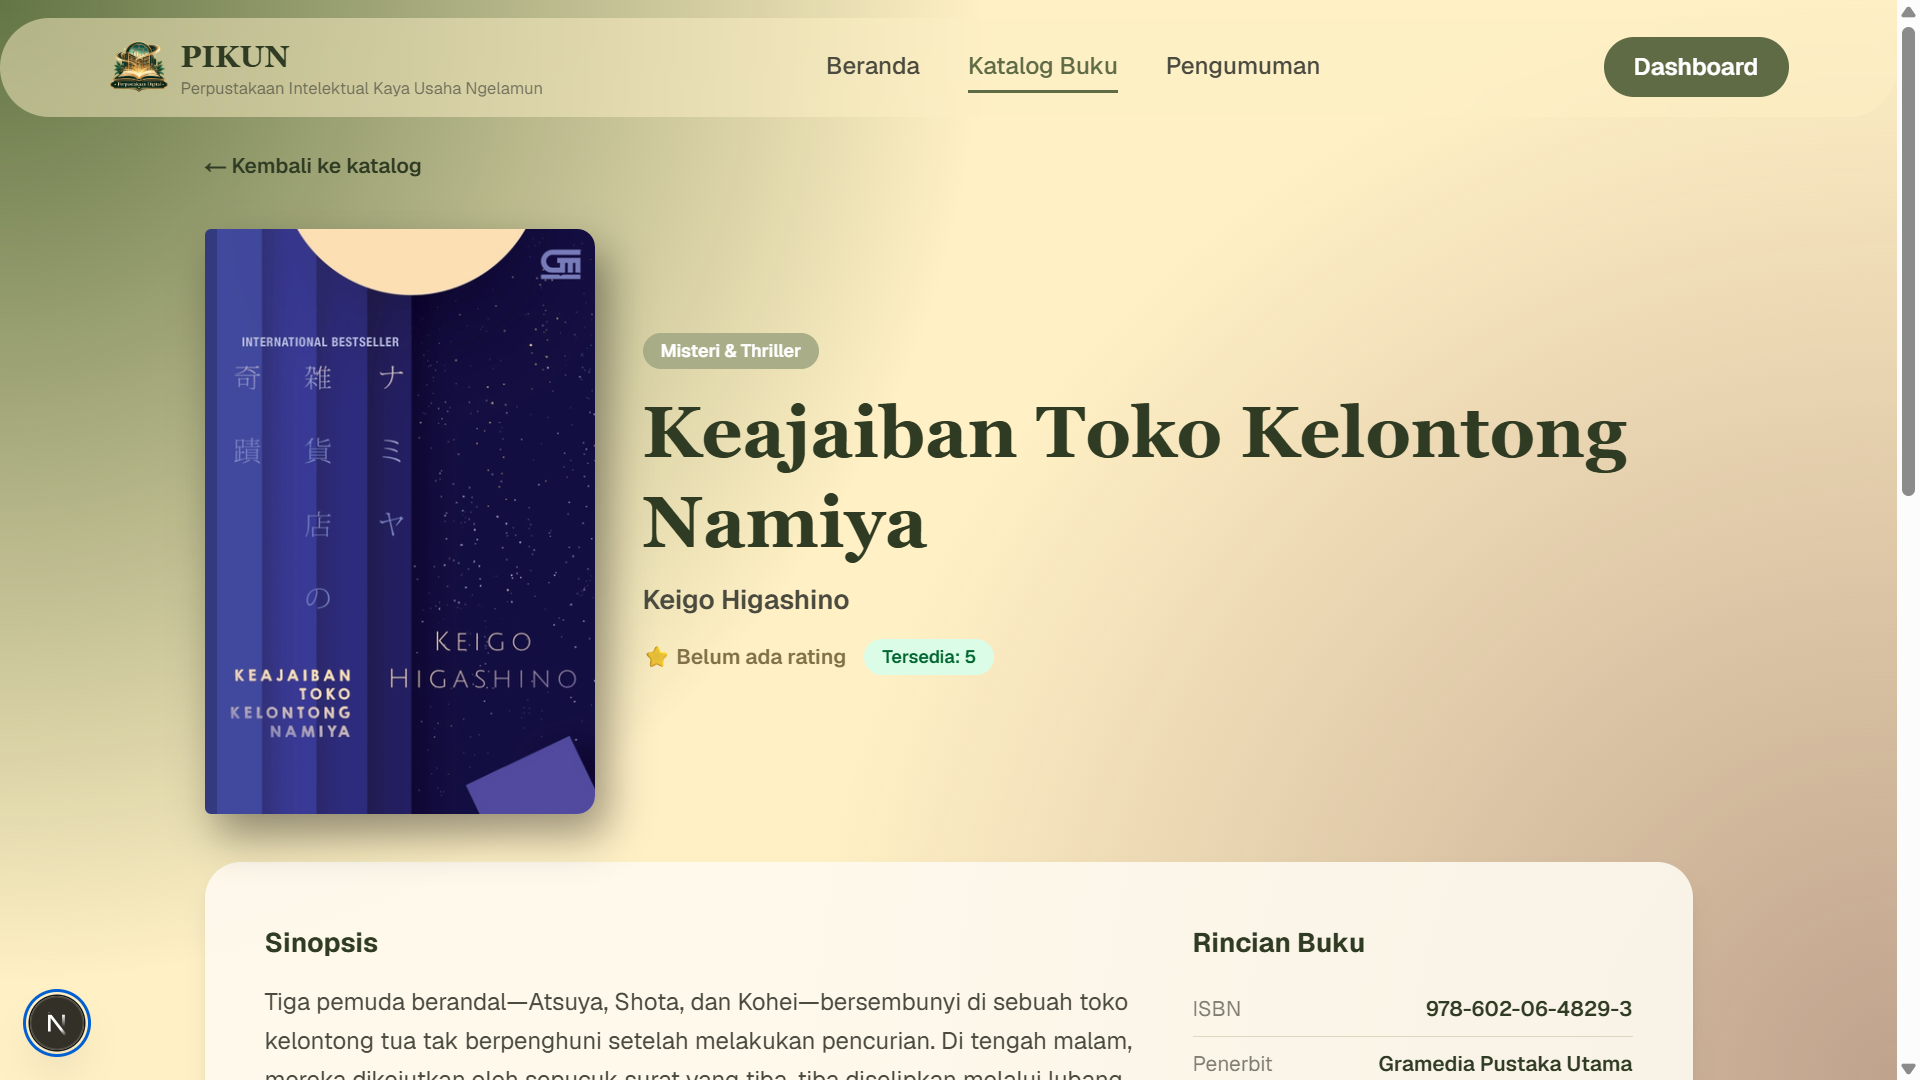
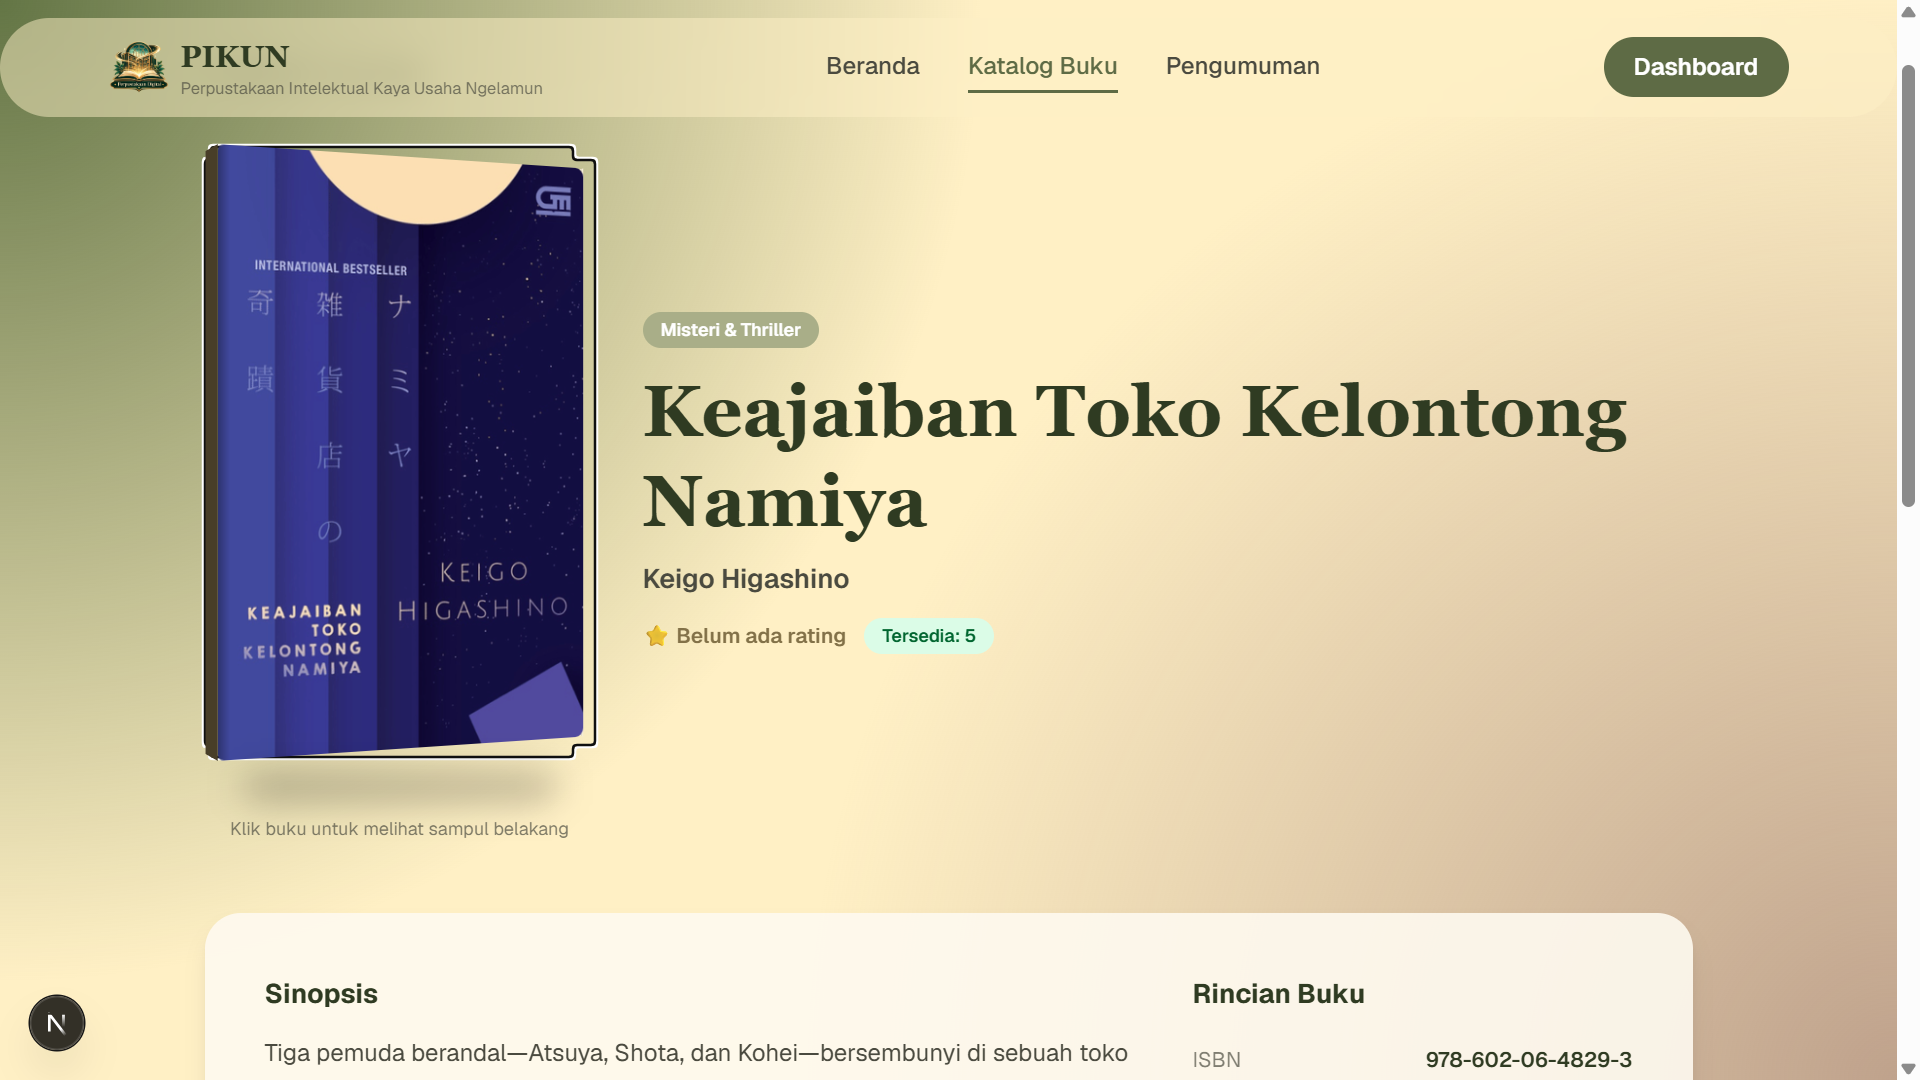
docs(readme): perbarui fitur detail buku 3D, akun demo, dan isi data awal

diff --git a/README.md b/README.md
@@ -41,7 +41,7 @@
 - **Filter kategori** (dikelompokkan menjadi Fiksi dan Non-Fiksi) dan **urutan** terbaru, tahun terbit, atau rating tertinggi.
 - **Telusuri abjad (A–Z):** menampilkan buku yang judulnya diawali huruf tertentu.
 - **Buku populer** dan koleksi di beranda, ditampilkan seperti rak buku.
-- **Detail buku:** sampul, sinopsis, rincian, rating rata-rata, ulasan, dan **rekomendasi buku serupa** (satu kategori, urut rating tertinggi).
+- **Detail buku:** sampul 3D yang bisa dibalik (sisi belakang menampilkan cuplikan sinopsis, pengarang, penerbit, dan ISBN), sinopsis, rincian, rating rata-rata, ulasan, dan **rekomendasi buku serupa** (satu kategori, urut rating tertinggi).
 - **Responsif:** dirancang mobile-first dengan Tailwind CSS, nyaman di HP, tablet, maupun desktop.
 
 ### Aturan sistem
@@ -92,7 +92,7 @@ npm install
 ### 3. Siapkan database
 1. Buka pgAdmin, lalu buat database baru, misalnya `perpustakaan`.
 2. Buka **Query Tool** pada database tersebut, lalu jalankan seluruh isi file **`database/schema.sql`**.
-   File ini membuat semua tabel dan mengisi data awal: akun Admin dan Pegawai, 11 sub-kategori buku, serta koleksi buku contoh lengkap dengan sinopsis dan sampul.
+   File ini membuat semua tabel dan mengisi data awal: akun Admin, Pegawai, dan 10 mahasiswa demo, 11 sub-kategori, 55 buku (lengkap dengan sinopsis dan sampul), serta 35 ulasan.
 
 > ⚠ `schema.sql` diawali dengan `DROP TABLE`, sehingga menjalankannya ulang akan **mereset seluruh data**.
 
@@ -176,3 +176,4 @@ src/
 - **Isi otomatis dari ISBN:** mengambil judul, penulis, penerbit, dan tahun terbit dari layanan seperti Open Library saat ISBN diketik, dengan isian manual sebagai cadangan.
 - **Pratinjau isi buku:** cuplikan beberapa halaman sebelum meminjam. Ini memerlukan izin penerbit, sehingga untuk saat ini calon peminjam dibantu oleh sinopsis dan ulasan.
 - Menampilkan jumlah ulasan di samping rating pada kartu buku.
+- Unggah gambar sampul belakang asli sebagai opsi (kolom tambahan di data buku). Saat ini sisi belakang dibuat otomatis dari data buku.
